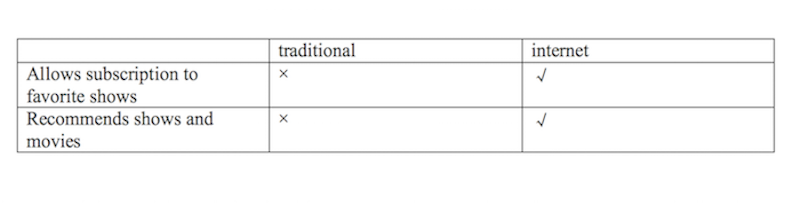
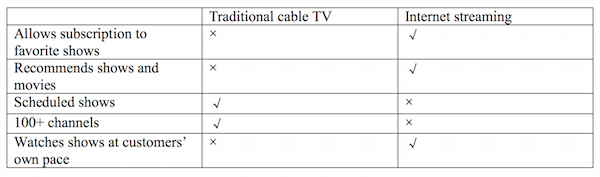
added

Changed region(s): [[0.0, 0.0282, 0.99, 0.9605], [0.33, 0.565, 0.39, 0.5932]]

diff --git a/index.html b/index.html
@@ -7,7 +7,7 @@
 <span class="adj">NEW MODEL OF</span><br />
 <span class="noun">PAY TELEVISION</span></h1><div class="subtitle">by Siti/Tina/Suki/Cindy/Jack</div></div><div id="videostep" data-x='-600' data-y='0' data-rotate='90' data-scale='0.25' class="step"><video id="video" width="900" height="1600" controls autoplay><source src="img/engl.mp4" type="video/mp4">Your browser does not support the video tag.</video></div><div id="agenda" data-x='-800' data-y='0' data-rotate='90' data-scale='0.25' class="step"><p>Agenda:</p><br><p class="animation"><em>1. Reasoning for switching into the internet program</em> </p><br><p>2. The Maintenance of HBO’s competitive advantages</p><br><p>3. The Competition in the market </p><br><p>4. Challenges of the on-demand structure</p><br><p>5. Trends of the television market</p></div><div id="section2" data-x='-1000' data-y='0' data-rotate='180' data-scale='0.25' class="step"><p><div class="css-typing"> 
 WHEN WAS THE LAST TIME YOU WATCHED SHOWS ON A TV?</div></p><br><p> <div class="css-typing"> 
-WHEN WAS THE LAST TIME YOU WATCHED SHOWS ON YOUR LAPTOP?</div></p><br></div><div id="section20" data-x='-1200' data-y='0' data-rotate='90' data-scale='0.25' class="step"><p>Price</p><br><p>Viewing Experience</p><br><p>Flexibility</p></div><div id="section21" data-x='-4200' data-y='100' data-rotate='90' data-scale='0.25' class="step"><img src="img/sukinetflix.png"></div><div id="section211" data-x='-4300' data-y='100' data-rotate='90' data-scale='0.25' class="step"><img src="img/sukirogers.png"></div><div id="section22" data-x='-1400' data-y='0' data-rotate='90' data-scale='0.25' class="step"><p>Price</p><br><p>Viewing Experience</p><br><p>Flexibility</p></div><div id="section23" data-x='-1400' data-y='100' data-rotate='90' data-scale='0.8' class="step"><div id="sukiseesaw"><div class="cube"></div><div class="cube-sec"></div><div class="seesaw"></div></div><img src="img/suki1.png"></div><div id="section24" data-x='-1600' data-y='0' data-rotate='90' data-scale='0.25' class="step"><p>Price</p><br><p>Viewing Experience</p><br><p>Flexibility</p></div><div id="section25" data-x='-1300' data-y='0' data-rotate='90' data-scale='0.5' class="step"><img src="img/sukiphone.png" alt="" class="dropimg"><img src="img/sukisnow.jpg" alt="" class="dropimg2"><img src="img/sukilaptop.png" alt="" class="dropimg3"><canvas id="canvas" style="position : absolute; top : -400px; left : -280px;"></canvas></div><div id="sukiques" data-x='0' data-y='0' data-scale='8' class="step"><div class="sukiques">Why HBO plans to launch HBO now?</div></div><div id="agenda2" data-x='-1800' data-y='0' data-rotate='90' data-scale='0.25' class="step"><p>Agenda:</p><br><p class="animation"> 
+WHEN WAS THE LAST TIME YOU WATCHED SHOWS ON YOUR LAPTOP?</div></p><br></div><div id="section20" data-x='-1200' data-y='0' data-rotate='90' data-scale='0.25' class="step"><p>Price</p><br><p>Viewing Experience</p><br><p>Flexibility</p></div><div id="section21" data-x='-4200' data-y='100' data-rotate='90' data-scale='0.25' class="step"><img src="img/sukinetflix.png"></div><div id="section211" data-x='-4300' data-y='100' data-rotate='90' data-scale='0.25' class="step"><img src="img/sukirogers.png"></div><div id="section22" data-x='-1400' data-y='0' data-rotate='90' data-scale='0.25' class="step"><p>Price</p><br><p>Viewing Experience</p><br><p>Flexibility</p></div><div id="section23" data-x='-1400' data-y='100' data-rotate='90' data-scale='0.8' class="step"><div id="sukiseesaw"><div class="cube"></div><div class="cube-sec"></div><div class="seesaw"></div></div><img src="img/suki1.png"></div><div id="section24" data-x='-1600' data-y='0' data-rotate='90' data-scale='0.25' class="step"><p>Price</p><br><p>Viewing Experience</p><br><p>Flexibility</p></div><div id="section25" data-x='-1300' data-y='0' data-rotate='90' data-scale='0.5' class="step"><img src="img/sukiphone.png" alt="" class="dropimg"><img src="img/sukisnow.jpg" alt="" class="dropimg2"><img src="img/sukilaptop.png" alt="" class="dropimg3"><canvas id="canvas" style="position : absolute; top : -400px; left : -280px;"></canvas></div><div id="sukiques" data-x='-4600' data-y='0' data-scale='8' class="step"><div class="sukiques">Why HBO plans to launch HBO now?</div></div><div id="suki4" data-x='-5200' data-y='0' data-scale='8' class="step"><p>“That is a large and growing opportunity that should no longer be left untapped,” Plepler said at parent Time Warner Inc.’s investor meeting in New York. “It is time to remove all barriers to those who want HBO.” </p></div><div id="suki5" data-x='-5600' data-y='0' data-scale='8' class="step"><p>Cord cutters: consumers who primarily use online video services to view television programs rather than subscribe to cable or satellite television.</p></div><div id="suki6" data-x='-6800' data-y='380' data-scale='8' class="step"><p>• For years, HBO’s long-standing relationship with pay-TV packages has prevented it from capturing key audiences.</p><br><p>• Even worse, the pay-TV market is shrinking as viewers increasingly abandon cable for online, on-demand services such as Netflix and Amazon Prime.</p><br><p>• In 2014, 125,000 TV subscribers dropped off the books of the top 13 pay-TV providers in the US to join the 10 million or so broadband households that do not subscribe to paid television.</p><br><p>• About 45 percent of Americans stream television shows at least once a month. That number is expected to increase to 53 percent or 175 million people by 2018.</p></div><div id="suki7" data-x='-6200' data-y='480' data-scale='8' class="step"><p>• The International Business Times estimates that an online streaming version of HBO could capture up to 70 million customers who currently don’t subscribe to a pay-TV service.</p><br><p>• Another estimate by Janney Capital analyst Tony Wible is that for 10 million subscribers who convert to a web-only service, Time Warner could collect $600 million in revenue with $480 million going to the bottom line. </p></div><div id="agenda2" data-x='-1800' data-y='0' data-rotate='90' data-scale='0.25' class="step"><p>Agenda:</p><br><p class="animation"> 
 <span class="problem"> 1. Reasoning for switching into the internet program </span></p><br><p class="animation"><em>2. The Maintenance of HBO’s competitive advantages </em></p><br><p>3. The Competition in the market</p><br><p>4. Challenges of the on-demand structure</p><br><p>5. Trends of the television market</p></div><div id="impact-old" data-x='500' data-y='0' data-rotate='90' data-scale='0.95' class="step"><div id="wrapper"><div id="content"><ul id="movieposters"><li><img src="img/01_iron_man_2.jpg" alt="Iron Man 2"><div class="movieinfo"><h3>Subscription fee</h3></div></li><li><img src="img/02_the_last_airbender.jpg" alt="The Last Airbender"><div class="movieinfo"><h3>Violent and sexual content</h3></div></li><li><img src="img/03_tron_legacy.jpg" alt="Tron Legacy"><div class="movieinfo"><h3>Strong Connection</h3></div></li></ul></div><script>(function (){
 window.clean__ = 'true';
 })();

diff --git a/style.css b/style.css
@@ -144,6 +144,8 @@ body.impress-on-how #title{opacity:0}
 #yp4 p{font-size:80%;margin-right: 0px;}
 #siti2 p{font-size:40%}
 #siti22 p{font-size:60%}
+#suki6 p{font-size:50%;}
+#suki7 p{font-size:60%}
 #siti11 p{font-size:70%;margin-right: 0px;color: blue}
 #gradient .apple-nav{width:900px;height:45px;background-image:-webkit-gradient(linear,0 100%,0 0,from(#666),color-stop(.5,#5e5e5e),color-stop(.51,#707070),to(#808080));background-image:-webkit-linear-gradient(bottom,#666 0,#5e5e5e 50%,#707070 51%,#808080 100%);background-image:-moz-linear-gradient(bottom,#666 0,#5e5e5e 50%,#707070 51%,#808080 100%);background-image:-ms-linear-gradient(bottom,#666 0,#5e5e5e 50%,#707070 51%,#808080 100%);background-image:-o-linear-gradient(bottom,#666 0,#5e5e5e 50%,#707070 51%,#808080 100%);background-image:linear-gradient(bottom,#666 0,#5e5e5e 50%,#707070 51%,#808080 100%);box-shadow:0 0 3px #aaa;-webkit-border-radius:12px;-moz-border-radius:12px;-ms-border-radius:12px;-o-border-radius:12px;border-radius:12px}
 #gradient .radial{width:600px;height:240px;margin:1em auto;-webkit-border-radius:12px;-moz-border-radius:12px;-ms-border-radius:12px;-o-border-radius:12px;border-radius:12px;background-image:-webkit-gradient(radial,center center,0,center center,100%,color-stop(0%,#fe6f66),color-stop(100%,#e9463c));background-image:-webkit-radial-gradient(75% 25%,circle cover,#fe6f66 0%,#e9463c 100%);background-image:-moz-radial-gradient(75% 25%,circle cover,#fe6f66 0%,#e9463c 100%);background-image:-o-radial-gradient(75% 25%,circle cover,#fe6f66 0%,#e9463c 100%);background-image:-ms-radial-gradient(75% 25%,circle cover,#fe6f66 0%,#e9463c 100%);background-image:radial-gradient(circle at 75% 25%,#fe6f66 0%,#e9463c 100%);box-shadow:0 0 6px #993832}
